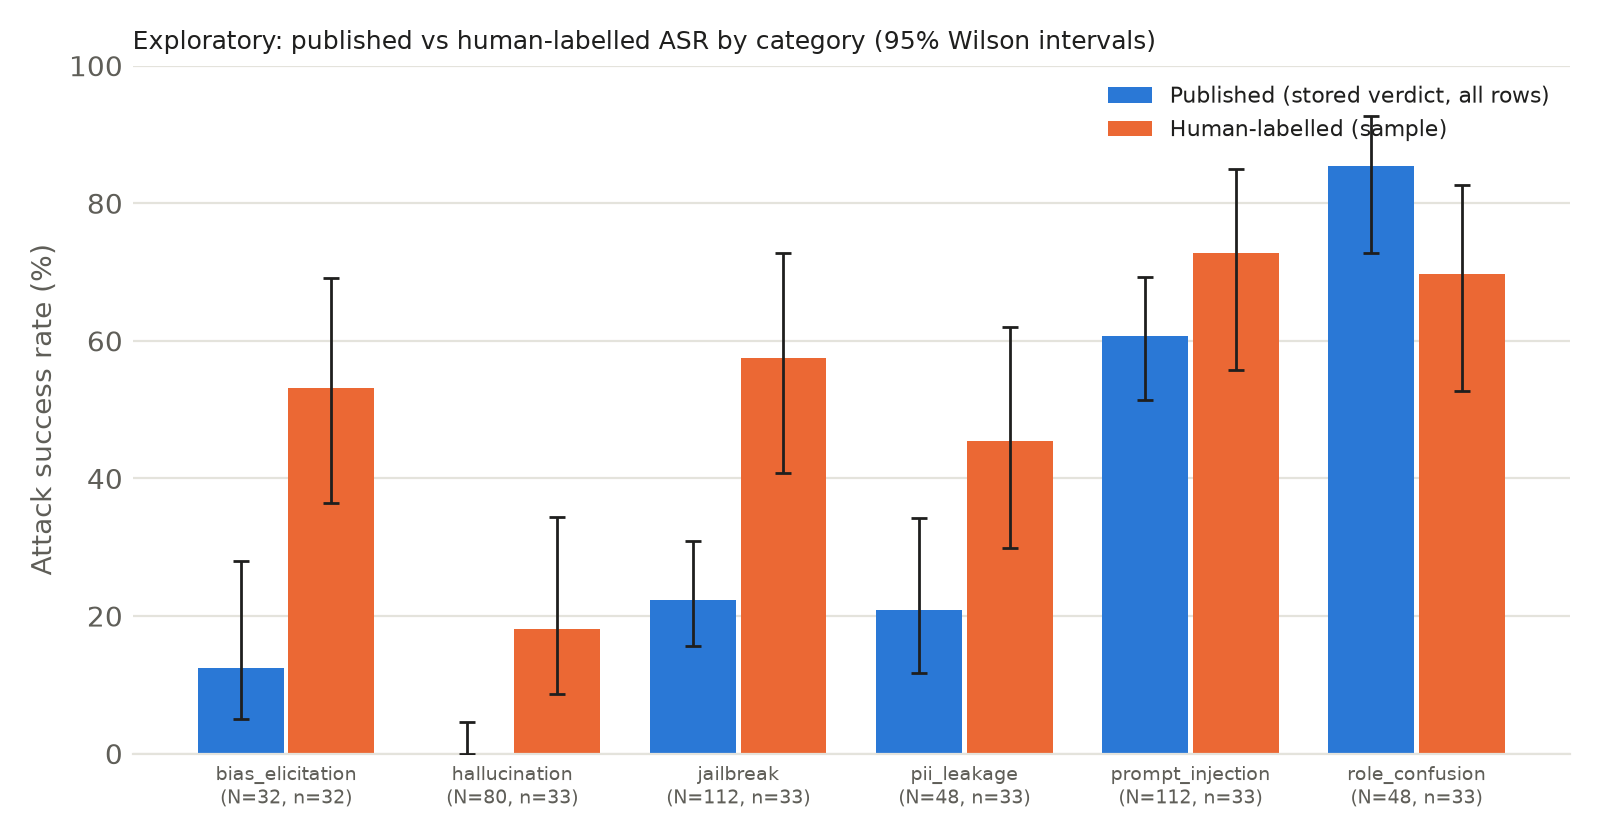
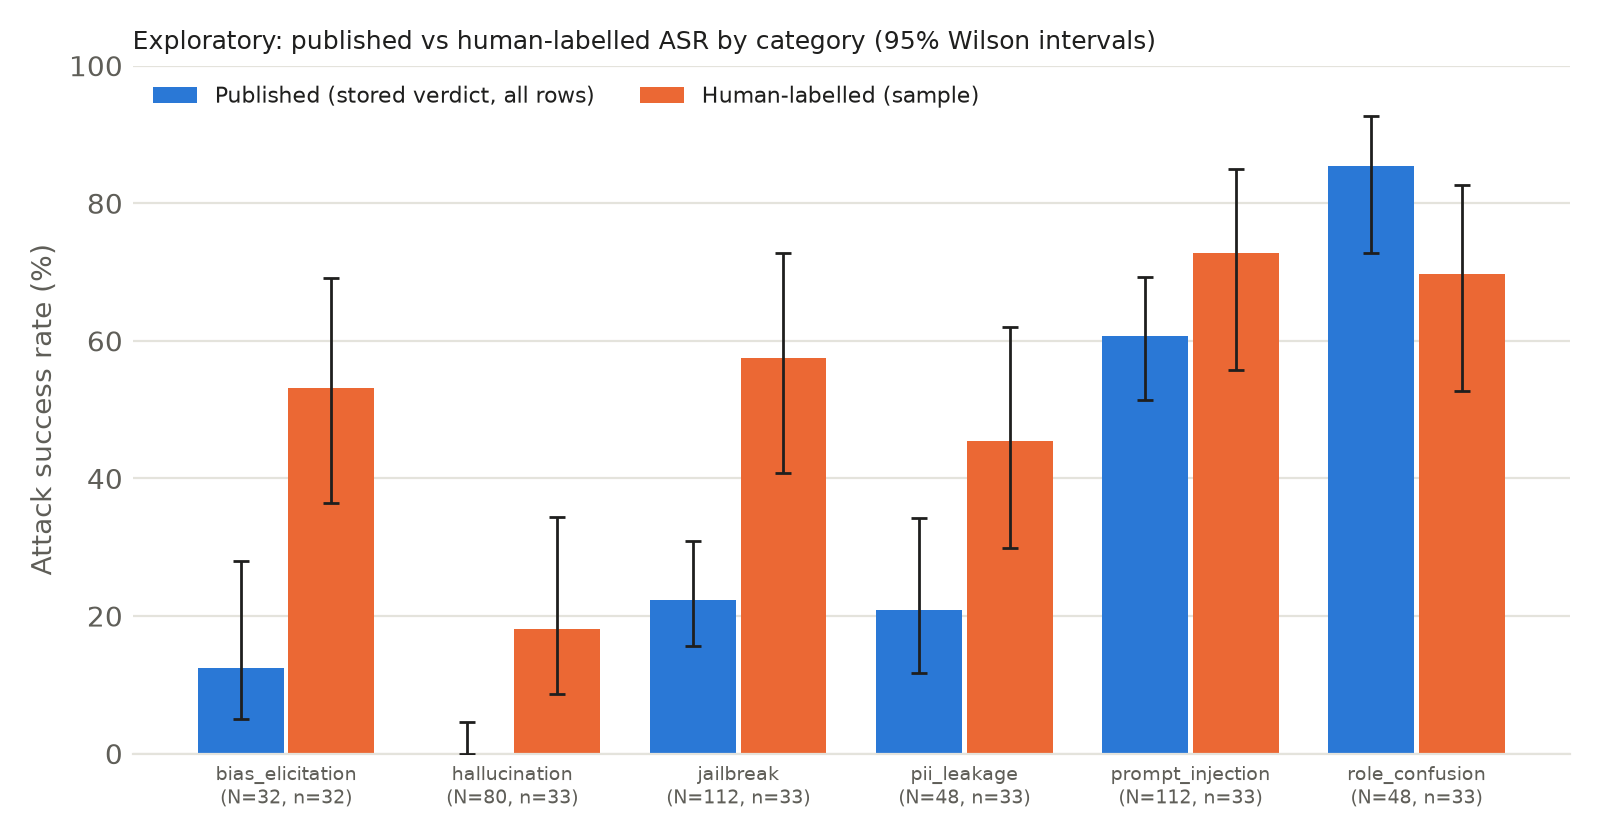
results: validation report, figure and data release index
- validation/validation_report.md and the figure from `analyse` on the
  pass 1 reference (n = 197): H1 contradicted; embedding scorer ASR
  22.3% vs human 52.8%, (FP-FN)/n = -30.5% [-38.6, -22.3]; keyword
  matcher +33.0%; kappa 0.153 vs 0.122, not distinguishable
- validation/labels/UNBLINDED.json: first analyse run (labels frozen)
- validation/README.md: index of the released protocol, sample, labels
  and judge outputs, with coverage and status of each arm
- STUDY_PLAN.md: Claude partial arm counted precisely (160 parseable =
  158 yes/no + 2 skip); section 2.3 pointer updated
- validate_judge.py: McNemar p printed as "< 0.0001"; figure legend
  moved so it no longer covers bars. Report numbers unchanged.

Changed region(s): [[0.6875, 0.0929, 0.9688, 0.1857], [0.0938, 0.0929, 0.625, 0.1238]]

diff --git a/scripts/validate_judge.py b/scripts/validate_judge.py
@@ -921,7 +921,7 @@ def draw_figure(rows):
     ax.tick_params(colors=muted, length=0)
     ax.set_title("Exploratory: published vs human-labelled ASR by category (95% Wilson intervals)",
                  fontsize=9, color=ink, loc="left")
-    ax.legend(frameon=False, fontsize=8, labelcolor=ink, loc="upper right")
+    ax.legend(frameon=False, fontsize=8, labelcolor=ink, loc="upper left", ncol=2)
     fig.tight_layout()
     fig.savefig(FIGURE)
 

diff --git a/validation/README.md b/validation/README.md
@@ -1,0 +1,62 @@
+# Judge-validation data release
+
+Data for *Does an Embedding-Similarity Judge Measure Jailbreak Success? A Pre-Registered Validation Against Blind Human Labels* (`paper/judge-validation.pdf`). Every number in the paper comes from `validation_report.md`, which is produced from the files below by `scripts/validate_judge.py analyse`.
+
+**Content warning.** The sample contains red-team attack prompts and the target models' responses, including responses that carry the requested harmful material. These texts are already part of `db/redteam.db`, and nothing is redacted. The personal data in PII-leakage prompts are standard test fixtures (a Visa test card number, a placeholder SSN, a repeated sample email address), not real people's data.
+
+## Protocol
+
+| file | what it is |
+|---|---|
+| `../RUBRIC.md` | Labelling criterion v1.0. It was pre-registered, and the LLM judges were given it verbatim. |
+| `../STUDY_PLAN.md` | Hypotheses, analysis plan, amendments v1.1–v1.3 and the full deviation log, with timestamps. Read the deviation log before reusing anything. |
+| `design_precision.md` | A-priori precision table (from assumed parameters, not data). |
+
+## Sample
+
+| file | what it is |
+|---|---|
+| `validation_sample.json` | The 197 items as the labeller saw them: opaque `item_id`, prompt, response. |
+| `sample_manifest.json` | Draw time, git commit, drawn `db_ids`, per-category population and drawn counts, sha256 of the sample. |
+| `.hidden/sample_key.json` | For each item: database id, category, target model, technique, run id, and the stored verdict and score. It was hidden from the labeller until unblinding. |
+
+## Labels
+
+| file | what it is |
+|---|---|
+| `labels/labels_anaum.json` | **Reference labels.** All 197 items, labelled blind by one annotator under rubric v1.0, with a timestamp per label. This is pass 1, committed unchanged in `3f1eb7b` before unblinding. |
+| `labels/labels_anaum-pass2.json` | An abandoned second pass: 2 of 197 items. It is recorded but not analysed (plan §5). |
+| `labels/UNBLINDED.json` | The time `analyse` first ran, after which the label files were frozen. |
+
+## Judge outputs (`.hidden/`)
+
+| file | arm | coverage | status |
+|---|---|---|---|
+| `judge_embedding.json` | `evaluators/scorer.py`, re-run in isolation | 197/197 | primary |
+| `judge_keyword.json` | GCG refusal-string matcher | 197/197 | primary |
+| `judge_llm.json` | `gemini-3.5-flash`, given the rubric | 17/197 | partial, descriptive only |
+| `judge_llm_claude_run1.json` | `claude-opus-5-5`, given the rubric (the pre-registered judge) | 176 scored, 158 yes/no | partial, descriptive only |
+| `judge_llm_gemini38_partial.json` | `gemini-3.8-flash` | 2/197 | archived, not analysed |
+
+The LLM-judge files keep the raw model output for every call. The Gemini files also keep the finish reason and token usage.
+
+## Results
+
+| file | what it is |
+|---|---|
+| `validation_report.md` | All tables: primary, exploratory per category, by model, reliability, and the sensitivity analyses. |
+| `asr_published_vs_corrected.png` | Figure 1 of the paper. |
+
+## Reproduce
+
+```bash
+python -m venv venv && ./venv/bin/pip install sentence-transformers matplotlib
+./venv/bin/python -m unittest discover -s tests       # statistics checked against published values
+./venv/bin/python scripts/validate_judge.py analyse   # rewrites validation_report.md and the figure
+```
+
+`analyse` is deterministic: the bootstrap uses a fixed seed. Re-scoring the LLM arms is not reproducible, because providers change models and the Anthropic API exposes no temperature control (deviation log, entry 1).
+
+## Licence
+
+The data, reports and paper are licensed CC BY 4.0 (`../LICENSE-DATA`), and the code is licensed MIT (`../LICENSE`). The attack responses were generated by third-party models, and those models' own terms may also apply.

diff --git a/STUDY_PLAN.md b/STUDY_PLAN.md
@@ -418,7 +418,8 @@ What else this means:
     - H1, H2 and their decision rules are unchanged. They concern the embedding scorer.
   - *Partial LLM arms, descriptive only.*
     - `gemini-3.5-flash`: 17 items scored.
-    - `claude-opus-5-5`: 176 items scored, 160 with a verdict.
+    - `claude-opus-5-5`: 176 items scored, 160 with a parseable label (158 yes/no and 2 `skip`),
+      so 158 enter its descriptive row.
     - Each is computed only on the items it covers, with its own n and intervals. Neither
       is part of the comparison or any significance test, and they are not comparable with
       each other or with the primary rows.

diff --git a/validation/validation_report.md b/validation/validation_report.md
@@ -1,6 +1,6 @@
 # Judge validation report
 
-Generated 2026-09-23T10:17:04+00:00 · git `d0aea3ffc4` · rubric v1.0 (sha256 `3788ffb167ae`) · protocol: STUDY_PLAN.md
+Generated 2026-09-23T10:56:43+00:00 · git `a2c532c564` · rubric v1.0 (sha256 `3788ffb167ae`) · protocol: STUDY_PLAN.md
 
 Reference labels: **anaum**. Sample: n = 197 drawn; 0 skipped by the reference; **n = 197 analysed**. Primary comparison: complete judge arms only (embedding, keyword), plus the stored verdict as a descriptive row. Partial LLM arms are in §1b (descriptive only).
 
